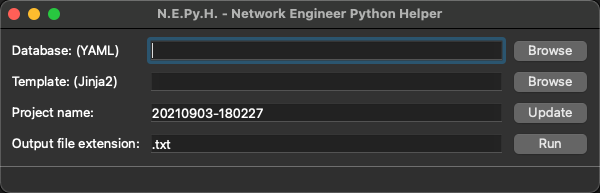
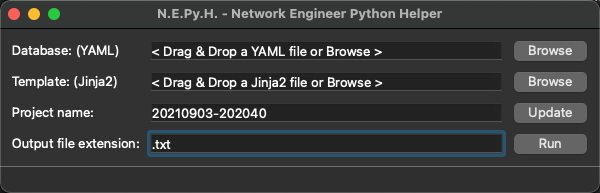
added support for drag and drop

diff --git a/nepyh.py b/nepyh.py
@@ -66,12 +66,65 @@ elif platform.system() == 'Windows':    # Windows
 else:                                   # linux variants
     myDocuments = script_path
 
-# GUI
-class MainGUI(QtWidgets.QMainWindow):
 
-    ###############################
-    ##     START of GUI code     ##
-    ###############################
+###############################
+##     START of GUI code     ##
+###############################
+
+# Drag and Drop filename to QLineEdit
+class DragDropQLineEdit(QtWidgets.QLineEdit):
+    def __init__(self, title, parent, fileType):
+        super().__init__(title, parent)
+        self.fileType = fileType
+        self.setAcceptDrops(True)
+
+    def validFile(self, fileName):
+        # Validate YAML file
+        if self.fileType == 'YAML':
+            try:
+                # Load the file as YAML
+                yaml_file=yaml.load(open(fileName), Loader=yaml.SafeLoader)
+                return True
+            except:
+                return False
+
+        # Validate JINJA file
+        elif self.fileType == 'JINJA':
+            try:
+                # Load the file as Jinja template
+                env = jinja2.Environment()
+                with open(fileName) as template:
+                    env.parse(template.read())
+                
+                # YAML files can also be loaded as Jinja template without errors
+                # try to understand if the file extension is of a YAML file
+                root, ext = os.path.splitext(fileName)
+                if ext.lower() in ['.yaml', '.yml']:
+                    return False
+                else:
+                    return True
+
+            except:
+                return False
+
+    def dragEnterEvent(self, event):
+        if event.mimeData().hasUrls():
+            event.accept()
+        else:
+            event.ignore()
+
+    def dropEvent(self, event):
+        files = []
+        for url in event.mimeData().urls():
+            files.append(url.toLocalFile())
+        fileName = files[0]
+        if self.validFile(fileName):
+            self.setText(fileName)
+        else:
+            self.setText('< File not valid >')
+
+# Main GUI
+class MainGUI(QtWidgets.QMainWindow):
 
     def __init__(self):
         super(MainGUI, self).__init__()
@@ -147,14 +200,14 @@ class MainGUI(QtWidgets.QMainWindow):
         self.projectLb = QtWidgets.QLabel('Project name:')
         self.fileExtLb = QtWidgets.QLabel('Output file extension:')
         # Text lines
-        self.databaseEdit = QtWidgets.QLineEdit()
-        self.templateEdit = QtWidgets.QLineEdit()
+        self.databaseEdit = DragDropQLineEdit('< Drag & Drop a YAML file or Browse >', self, 'YAML')
+        self.databaseEdit.focusInEvent = bind(lambda w, e: QtCore.QTimer.singleShot(0, w.selectAll), self.databaseEdit) # This is needed to select all text when click on LineEdit
+        self.templateEdit = DragDropQLineEdit('< Drag & Drop a Jinja2 file or Browse >', self, 'JINJA')
+        self.templateEdit.focusInEvent = bind(lambda w, e: QtCore.QTimer.singleShot(0, w.selectAll), self.templateEdit) # This is needed to select all text when click on LineEdit
         self.projectEdit = QtWidgets.QLineEdit(defFolder)
-        # This is needed to select all text when click on LineEdit
-        self.projectEdit.focusInEvent = bind(lambda w, e: QtCore.QTimer.singleShot(0, w.selectAll), self.projectEdit)
+        self.projectEdit.focusInEvent = bind(lambda w, e: QtCore.QTimer.singleShot(0, w.selectAll), self.projectEdit) # This is needed to select all text when click on LineEdit
         self.fileExtEdit = QtWidgets.QLineEdit('.txt')
-        # This is needed to select all text when click on LineEdit
-        self.fileExtEdit.focusInEvent = bind(lambda w, e: QtCore.QTimer.singleShot(0, w.selectAll), self.fileExtEdit)
+        self.fileExtEdit.focusInEvent = bind(lambda w, e: QtCore.QTimer.singleShot(0, w.selectAll), self.fileExtEdit) # This is needed to select all text when click on LineEdit
         # Buttons
         self.databaseBtn = QtWidgets.QPushButton('Browse')
         self.databaseBtn.clicked.connect(self._getdbPath)
